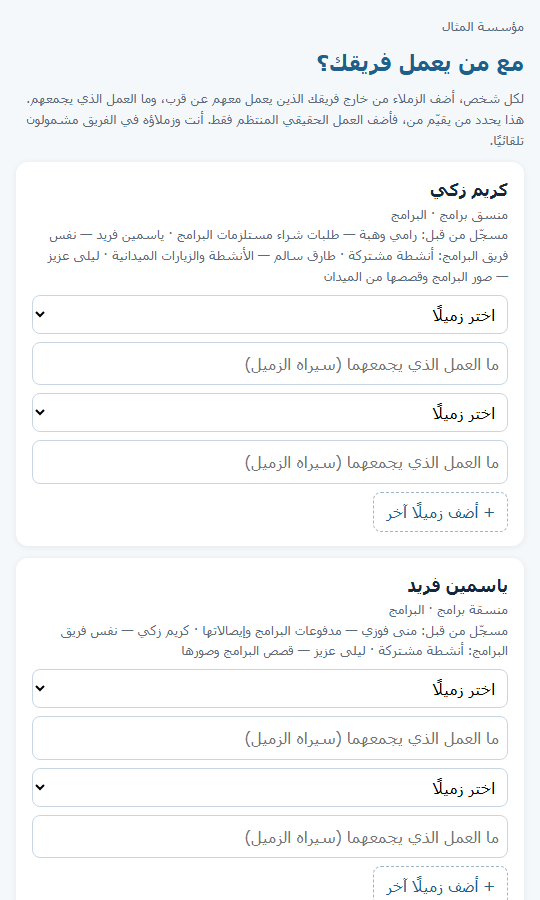
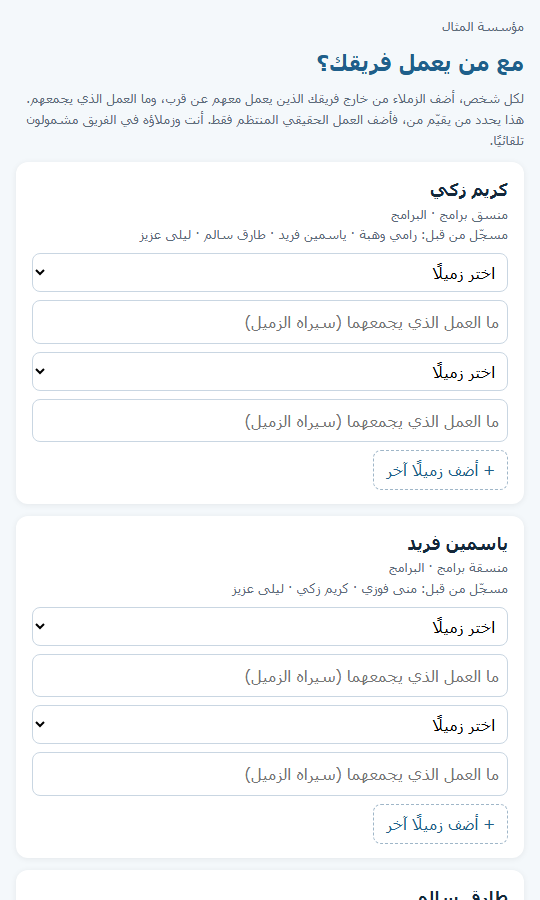
fix: follow-up finds managers by name, role questions only for listed departments and off when seeded, actions per round, links page hides others' reasons
Found by a fresh code review; each fix has a test.

Changed region(s): [[0.0593, 0.2489, 0.9481, 1.0], [0.4444, 0.9022, 0.6222, 0.9644]]

diff --git a/test/smoke.js b/test/smoke.js
@@ -226,11 +226,19 @@ for (const L of ['en', 'ar']) {
   ok(acts && acts.data.length >= 11 && acts.data[0][3] === ctx.tr_(L, 'col.actions.action'), tag + 'an «Agreed actions» tab is made, one starting row per person');
   const before = acts.data.length; ctx.actionsTab_(R);
   ok(acts.data.length === before, tag + '…and making the reports again does not add the same people twice');
+  ctx.setSetting_('CYCLE_NAME', '2027'); ctx.resetCfg_(); ctx.actionsTab_(R);
+  ok(acts.data.length > before && acts.data[acts.data.length - 1][8] === '2027', tag + '…a new round adds its own starting rows');
+  acts.data.splice(before); ctx.setSetting_('CYCLE_NAME', '2026'); ctx.resetCfg_();
   const withMgr = acts.data.findIndex((r, i) => i > 0 && r[2]);
   acts.data[withMgr][3] = 'Share the weekly plan every Monday'; acts.data[withMgr][5] = '2027-01-15';
   state.mail = []; state.alerts = []; ctx.followUpActions();
   ok(state.mail.length === 1 && state.mail[0].to === acts.data[withMgr][2] && state.mail[0].text.indexOf('Share the weekly plan every Monday') >= 0, tag + 'the follow-up emails the manager the open action of their team, and nobody else');
   ok(acts.data[withMgr][7], tag + '…and records the date of the follow-up');
+  const kz = team.find(p => p.email === 'karim@example.org');
+  acts.data.push([kz.name, '', '', 'An extra action added by hand', '', '', ctx.tr_(L, 'word.no'), '', '2026']);
+  state.mail = []; state.alerts = []; ctx.followUpActions();
+  ok(state.mail.some(m => m.to === kz.manager && m.text.indexOf('An extra action added by hand') >= 0), tag + 'a row added by hand with only a name still reaches the right manager');
+  acts.data.pop();
   acts.data[withMgr][6] = ctx.tr_(L, 'word.yes'); state.mail = []; state.alerts = []; ctx.followUpActions();
   ok(state.mail.length === 0 && state.alerts[0] === ctx.tr_(L, 'followUp.none'), tag + 'an action marked done is not sent again');
   const docs = Object.keys(state.docs);
@@ -297,6 +305,8 @@ for (const L of ['en', 'ar']) {
   const HM = 'hala@example.org', KZ = 'karim@example.org', LZ = 'laila@example.org', MO = 'mona@example.org';
   state.user = HM; let lp = ctx.linksPageHtml_(HM);
   ok(lp.indexOf(ctx.tr_(L, 'links.title')) >= 0 && lp.indexOf(team.find(p => p.email === KZ).name) >= 0, tag + 'a manager sees the short page with their own team');
+  const someReason = ctx.readLinks_(team).find(l => l.rater === KZ || l.ratee === KZ).reason;
+  ok(lp.indexOf(someReason) < 0, tag + 'the short page names who is already listed, but never what anyone wrote about them');
   ok(ctx.linksPageHtml_(KZ).indexOf(ctx.esc_(ctx.tr_(L, 'links.notManager'))) >= 0, tag + 'someone who manages nobody gets a plain message instead');
   const linksBefore = tab('LINKS').data.length;
   let lr = ctx.submitLinks([{ member: KZ, colleague: MO, reason: 'Monthly newsletter stories from the field' }]);
@@ -315,6 +325,10 @@ for (const L of ['en', 'ar']) {
   state.user = 'nadia@example.org'; state.mail = []; state.alerts = []; ctx.askManagers();
   const mgrs = team.filter(p => p.active !== false && p.email && !ctx.isNoEmail_(p.email) && team.some(q => q.manager === p.email && q.active !== false));
   ok(state.mail.length === mgrs.length && state.mail.every(m => m.text.indexOf('?view=links') >= 0), tag + 'asking managers emails each manager once, with the link to their short page');
+  const qs = tab('QUESTIONS'), qBefore = qs.data.length;
+  qs.data = qs.data.filter(r => !/^R[FAMV][12]$/.test(String(r[0])));
+  ctx.addMissingRoleRows_();
+  ok(qs.data.length === qBefore && qs.data.filter(r => /^R[FAMV][12]$/.test(String(r[0]))).every(r => r[6] === ctx.tr_(L, 'word.no')), tag + 'a sheet from an older version gets the ready-made role questions, switched off');
   ctx.rememberControlSheet_();
 
   // only the admin

diff --git a/test/unit.js b/test/unit.js
@@ -147,6 +147,12 @@ for (const L of ['en', 'ar']) {
   ok(RR.persons['rami@example.org'].coreOthers === RR0.persons['rami@example.org'].coreOthers, tag + '…apart from the core average, so everyone is still compared on the same questions');
   rb.ROLE = [ctx.makeQuestion_('ROLE', ['RA1', 'Accurate records', 'Help', '', 'No such department'])];
   ok(ctx.checkOrg_(team, [], [], {}, {}).some(x => x.msg.indexOf('No such department') >= 0), tag + 'the check warns when a role question names a department nobody is in');
+  rb.ROLE = [ctx.makeQuestion_('ROLE', ['RA1', 'Accurate records', 'Help', '', ''])];
+  ok(ctx.roleIdsFor_(rDept).length === 0 && ctx.checkOrg_(team, [], [], {}, {}).some(x => x.msg.indexOf('Accurate records') >= 0), tag + 'a role question with no department reaches nobody, and the check says so');
+  ctx.resetBank_();
+  const sb = ctx.seedBank_([['C1', 'CORE', 'Replies fast', '', 'yes', ''], ['RV1', 'ROLE', 'Reliability', '', '', 'Volunteers'], ['RV2', 'ROLE', 'Representing us', '', '', 'Volunteers', 'yes']]);
+  ok(sb.ROLE.find(q => q.id === 'RV1').off && !sb.ROLE.find(q => q.id === 'RV2').off, tag + 'seeded role questions start off unless marked in use');
+  ok(ctx.seedBank_([['X', 'NOPE', '', '', '', '']]).ROLE.length === 8, tag + 'the fallback bank keeps the ready-made role questions');
   ctx.resetBank_();
   ctx.useSettings_({ LANGUAGE: L, ORG_TARGETS: 'Target: 500 families' });
   ok(ctx.Q_().SELF_OPEN.find(q => q.id === 'S_CONTRIB').help.indexOf('500 families') >= 0, tag + 'organisation targets appear in the contribution question');

diff --git a/docs/ar/admin-guide.md b/docs/ar/admin-guide.md
@@ -79,7 +79,8 @@
 4. **ضعوا المتابعة في تقويمكم.** عندما تجهز التقارير، تعرض النافذة «أضف تذكيرًا إلى تقويم Google» بعد نحو 3 أشهر. بنقرة واحدة
    يُفتح تقويمكم والتذكير مكتوب.
 5. **تابِعوا.** في ذلك اليوم، اختاروا «متابعة الإجراءات المتفق عليها». وبعد أن تؤكدوا، تصل كل رئيس رسالة واحدة فيها إجراءات فريقه
-   التي لم تكتمل بعد. أما إجراءات من ليس له رئيس فتصل إليكم.
+   التي لم تكتمل بعد. أما إجراءات من ليس له رئيس فتصل إليكم. وتبقى الإجراءات في التبويب من دورة إلى أخرى حتى تُعلَّم بأنها تمت؛
+   وتضيف كل دورة صفوفها الأولى الخاصة بها (عمود «الدورة»).
 
 ## بعد تغيير الكود أو الأسئلة
 إذا غيّرتم الكود (أو غيّره Claude)، فانشروا إصدارًا جديدًا ليراه الناس:

diff --git a/docs/en/admin-guide.md b/docs/en/admin-guide.md
@@ -75,7 +75,8 @@ Nothing is shared with anyone. You decide, person by person.
 4. **Put the follow-up in your calendar.** When the reports are ready, the window offers **Add a reminder to my Google
    Calendar** for about 3 months later. One click, and it opens your calendar with the reminder filled in.
 5. **Follow up.** On that day, choose **Follow up agreed actions**. After you confirm, each manager gets one email with
-   the actions of their team that are not done yet. Actions for someone without a manager come to you.
+   the actions of their team that are not done yet. Actions for someone without a manager come to you. Actions stay in
+   the tab across rounds until they are marked done; each round adds its own starting rows (the **Round** column).
 
 ## After changing the code or the questions
 If you (or Claude) changed the code, publish a new version so people see it:
